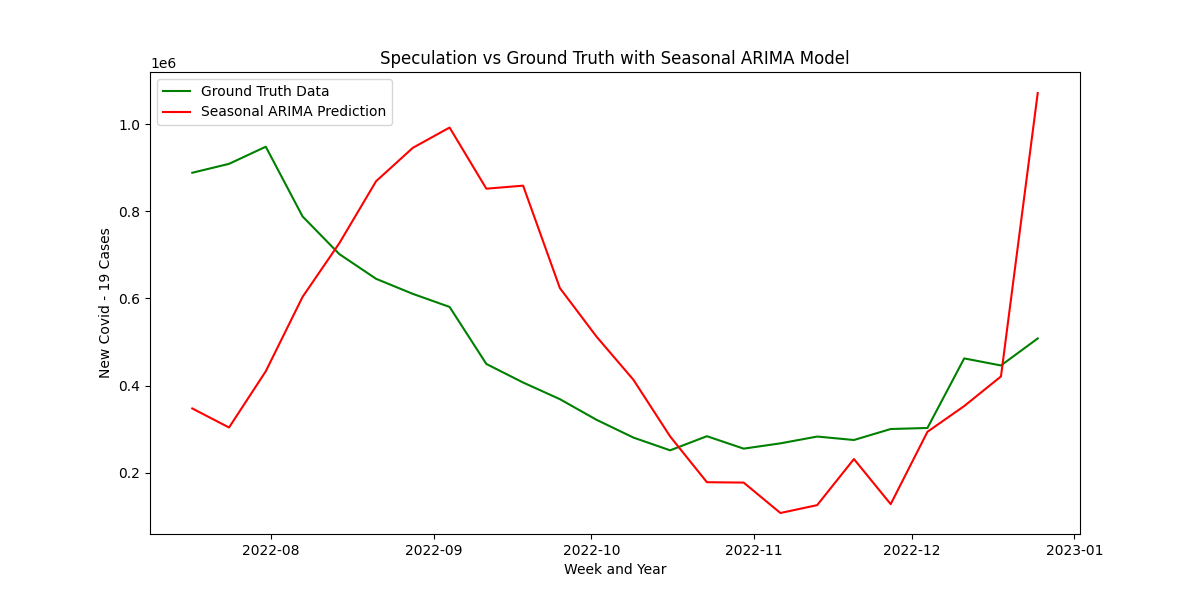
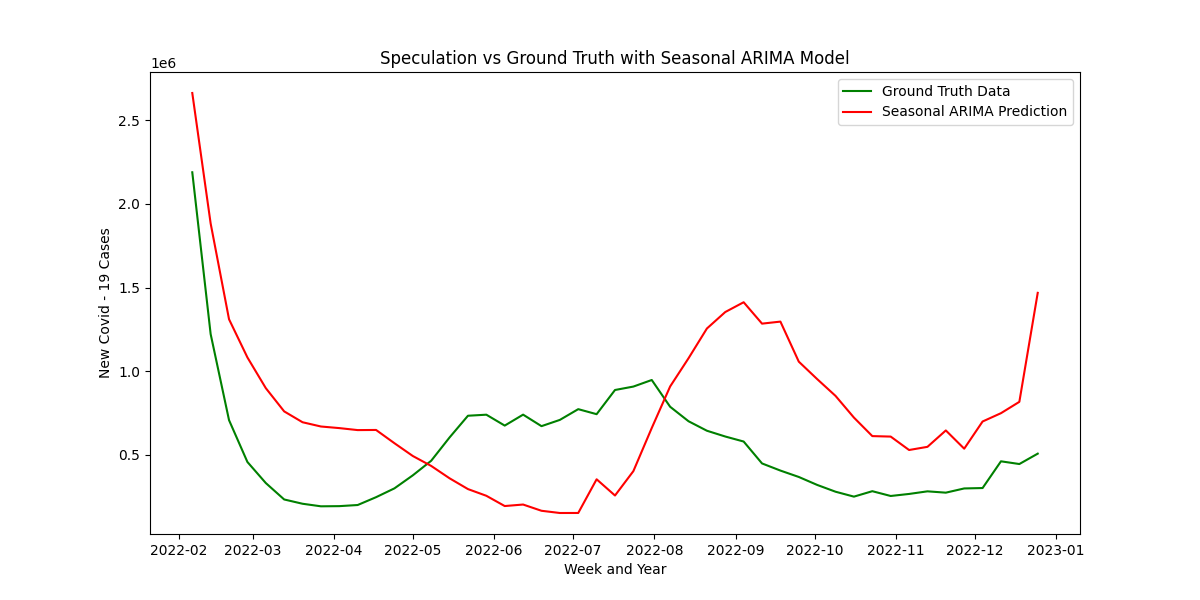
clean up and logic

diff --git a/code/mobility_model.py b/code/mobility_model.py
@@ -1,8 +1,6 @@
 from source import compile_data
 import matplotlib.pyplot as plt
-from statsmodels.tsa.arima.model import ARIMA
 import pandas as pd
-from sklearn.metrics import mean_absolute_error
 from statsmodels.tsa.statespace.sarimax import SARIMAX
 
 def clean_data():
@@ -75,7 +73,7 @@ def plot_seasonal_ARIMA(test_data, speculation):
 def run_Seasonal_ARIMA_model(data):
     data = set_index_on_date(data)
 
-    training_data_len = int(0.85 * len(data))
+    training_data_len = int(0.7 * len(data))
     data["mobility_data"].interpolate(method="linear", inplace=True)
 
     training_data = data[:training_data_len].astype(float)
